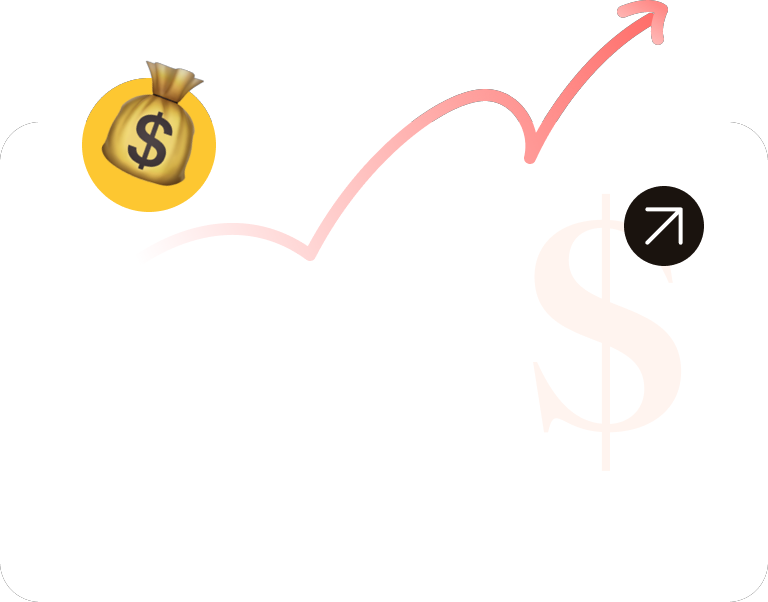
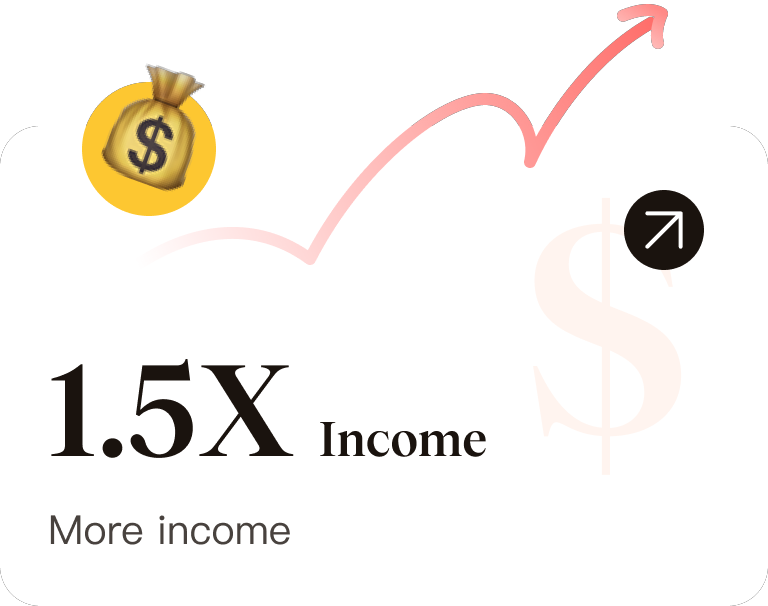
背景阴影

diff --git a/src/views/HomeView.vue b/src/views/HomeView.vue
@@ -29,37 +29,40 @@
             </div>
 
             <!-- Stats Cards -->
-            <el-row :gutter="20" class="mt-16 stats-row">
-              <el-col :xs="24" :md="8">
-                <el-card class="stat-card stat-card-yellow" shadow="hover">
+            <el-row :gutter="20" class="mt-16 stats-row" style="margin-top: 20%;">
+              <el-col :xs="24" :md="8"
+                style="background-image: url('/images/2x.png'); background-size: contain; background-repeat: no-repeat; background-position: center; min-height: 240px;">
+                <!-- <el-card class="stat-card stat-card-yellow" shadow="hover">
                   <div class="monthly-tag">Monthly</div>
                   <div class="stat-icon handshake-icon"></div>
                   <el-text tag="h3" class="text-4xl font-bold stat-value">2X</el-text>
                   <el-text tag="p" class="text-sm stat-label">Deals</el-text>
                   <el-text tag="p" class="text-xs stat-desc">More brand collab deals. Higher<br />Collab Value.
                     Greater Stability</el-text>
-                </el-card>
+                </el-card> -->
               </el-col>
 
-              <el-col :xs="24" :md="8">
-                <el-card class="stat-card stat-card-white" shadow="hover">
+              <el-col :xs="24" :md="8"
+                style="margin-top: -28%; background-image: url('/images/1.5x.png'); background-size: contain; background-repeat: no-repeat; background-position: center; min-height: 240px;">
+                <!-- <el-card class="stat-card stat-card-white" shadow="hover">
                   <div class="stat-icon income-icon"></div>
                   <div class="trend-arrow"></div>
                   <el-text tag="h3" class="text-4xl font-bold stat-value">1.5X</el-text>
                   <el-text tag="p" class="text-sm stat-label">Income</el-text>
                   <el-text tag="p" class="text-xs stat-desc">More income</el-text>
-                </el-card>
+                </el-card> -->
               </el-col>
 
-              <el-col :xs="24" :md="8">
-                <el-card class="stat-card stat-card-pink" shadow="hover">
+              <el-col :xs="24" :md="8"
+                style="background-image: url('/images/80%.png'); background-size: contain; background-repeat: no-repeat; background-position: center; min-height: 240px;">
+                <!-- <el-card class="stat-card stat-card-pink" shadow="hover">
                   <div class="stat-icon time-icon"></div>
                   <div class="down-arrow"></div>
                   <el-text tag="h3" class="text-4xl font-bold stat-value">80%</el-text>
                   <el-text tag="p" class="text-sm stat-label">Time</el-text>
                   <el-text tag="p" class="text-xs stat-desc">less back-and-forth inbox work</el-text>
                   <div class="gmail-icon"></div>
-                </el-card>
+                </el-card> -->
               </el-col>
             </el-row>
           </div>
@@ -223,7 +226,6 @@
                 <br />Work Less, Earn More
               </el-text>
             </div>
-
             <!-- Features Grid -->
             <div ref="smartlottieContainer" class="meet-nia-full-image"></div>
           </div>
@@ -809,6 +811,7 @@ export default {
 
 .stat-card-white {
   background-color: white;
+  box-shadow: 0px 0px 50px 0px #ff6d247c;
 }
 
 .stat-card-pink {
